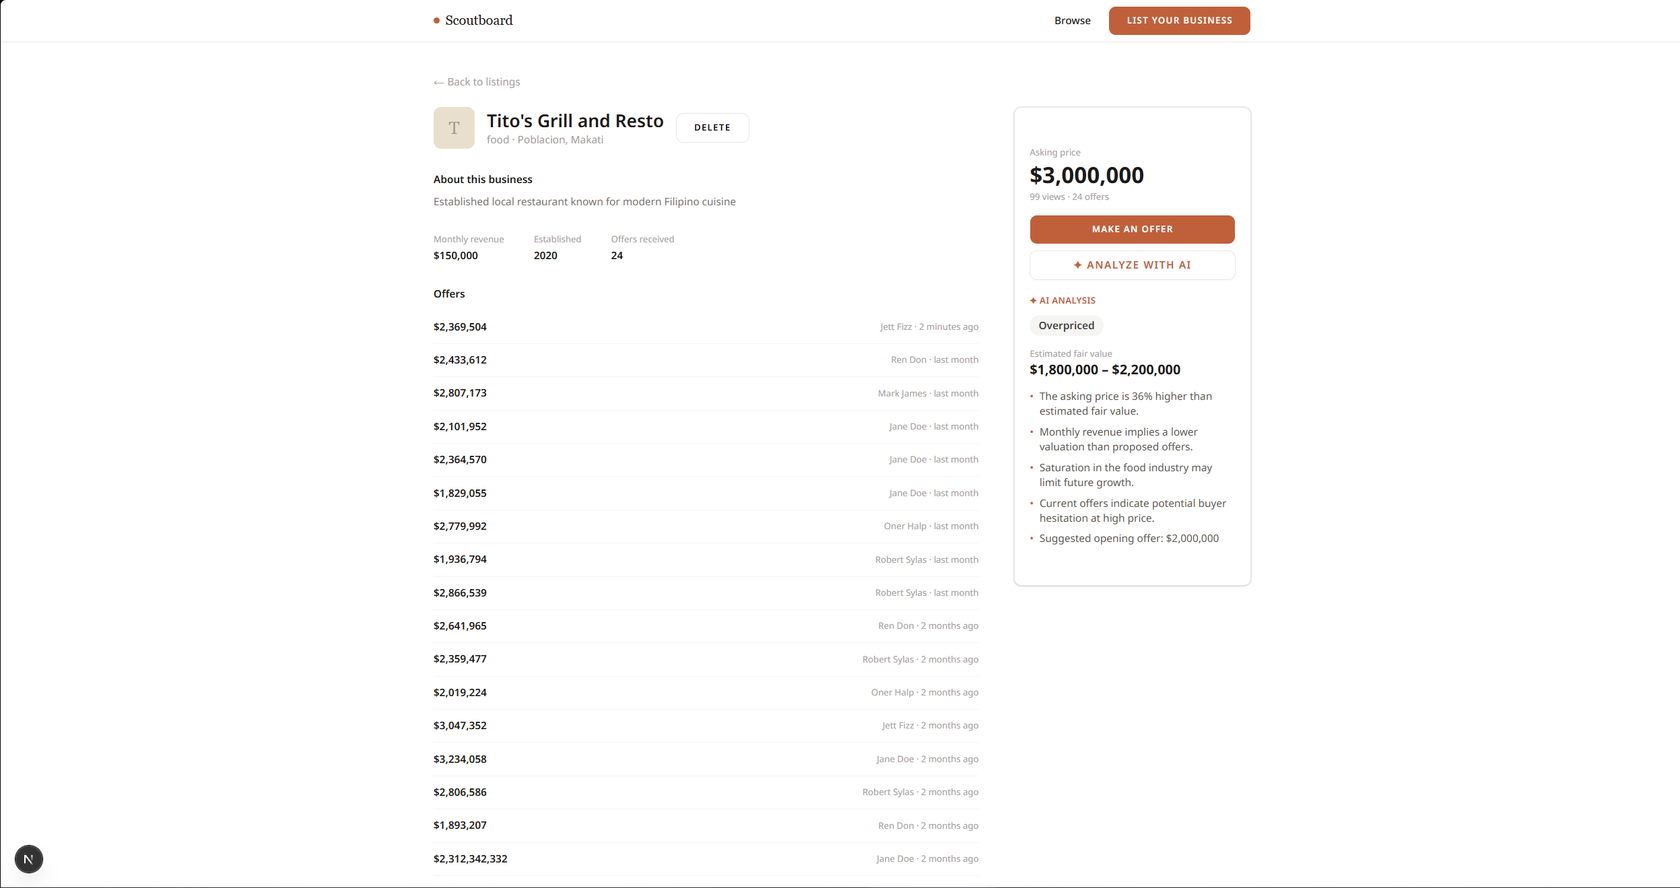
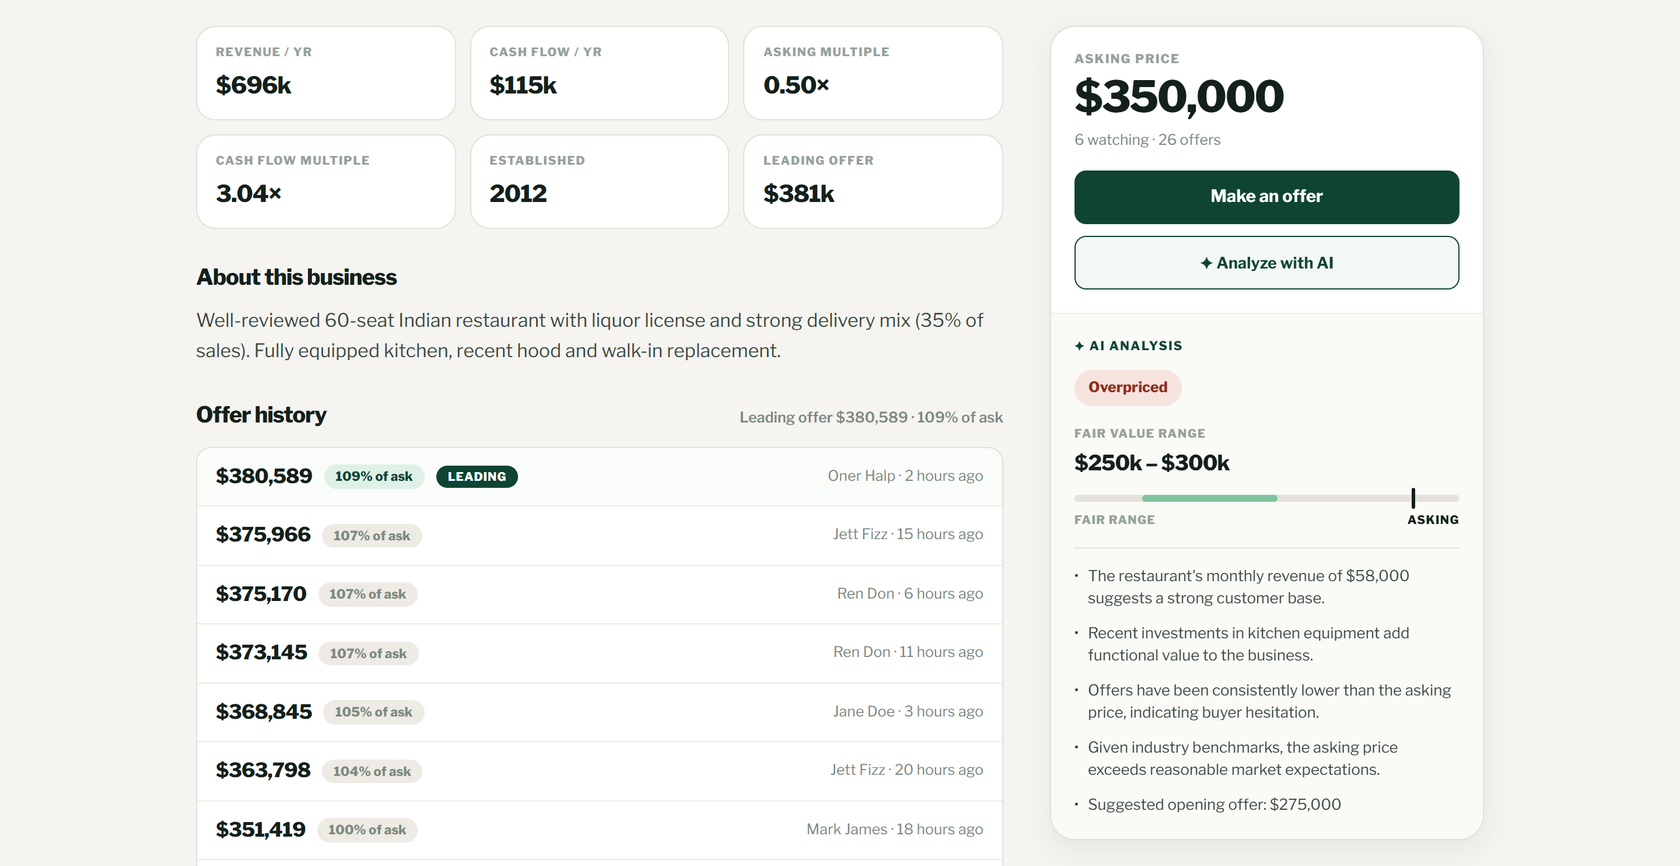
content: recapture scoutboard screenshots after its ui redesign
ScoutBoard's UI changed drastically, so the case study screenshots were
retaken from the live deploy at a 1440px viewport, 2x, clipped to measured
section boundaries

diff --git a/src/content/projects.ts b/src/content/projects.ts
@@ -52,7 +52,7 @@ export const projects: Project[] = [
     cta: "read the case study →",
     hasImage: true,
     thumbnail: "/images/work/scoutboard/thumbnail.png",
-    thumbnailAlt: "ScoutBoard — the realtime marketplace board",
+    thumbnailAlt: "ScoutBoard — 'Buy a real business with real numbers', over a live count of offers on the book",
     repo: links.repos.scoutboard,
     demo: links.demos.scoutboard,
   },
